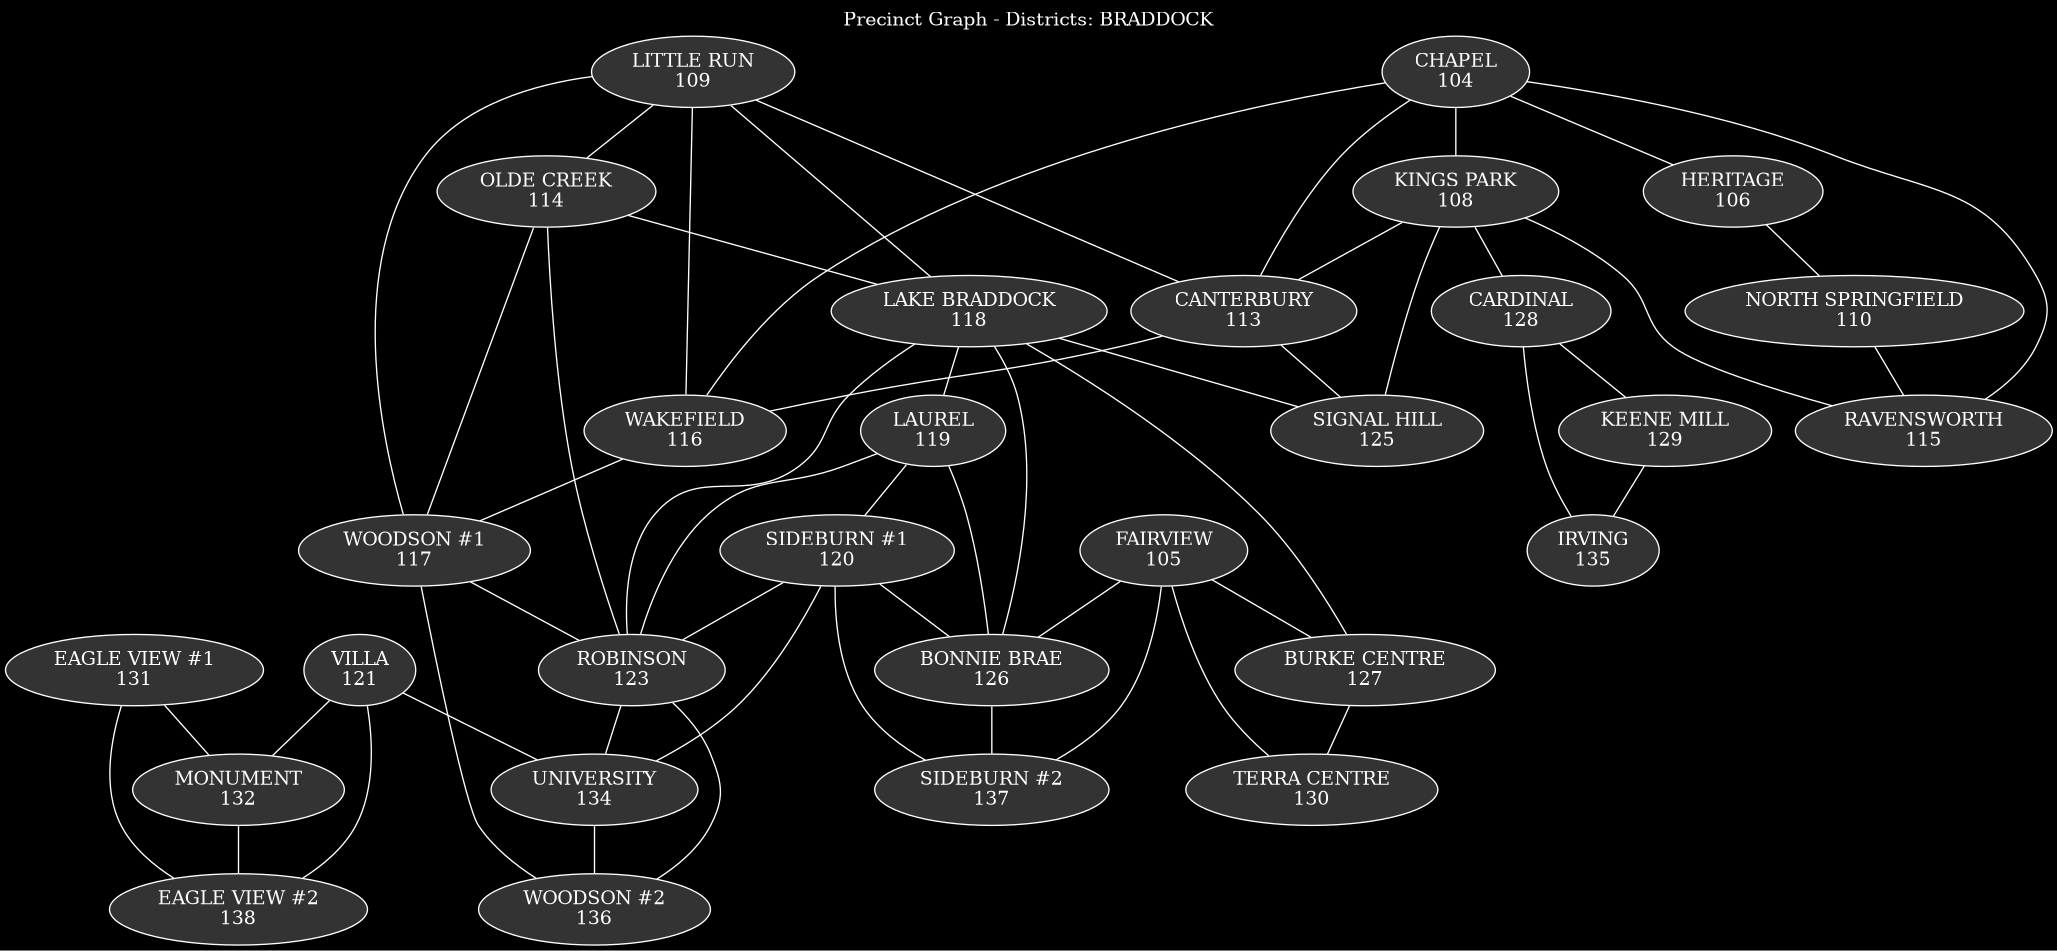
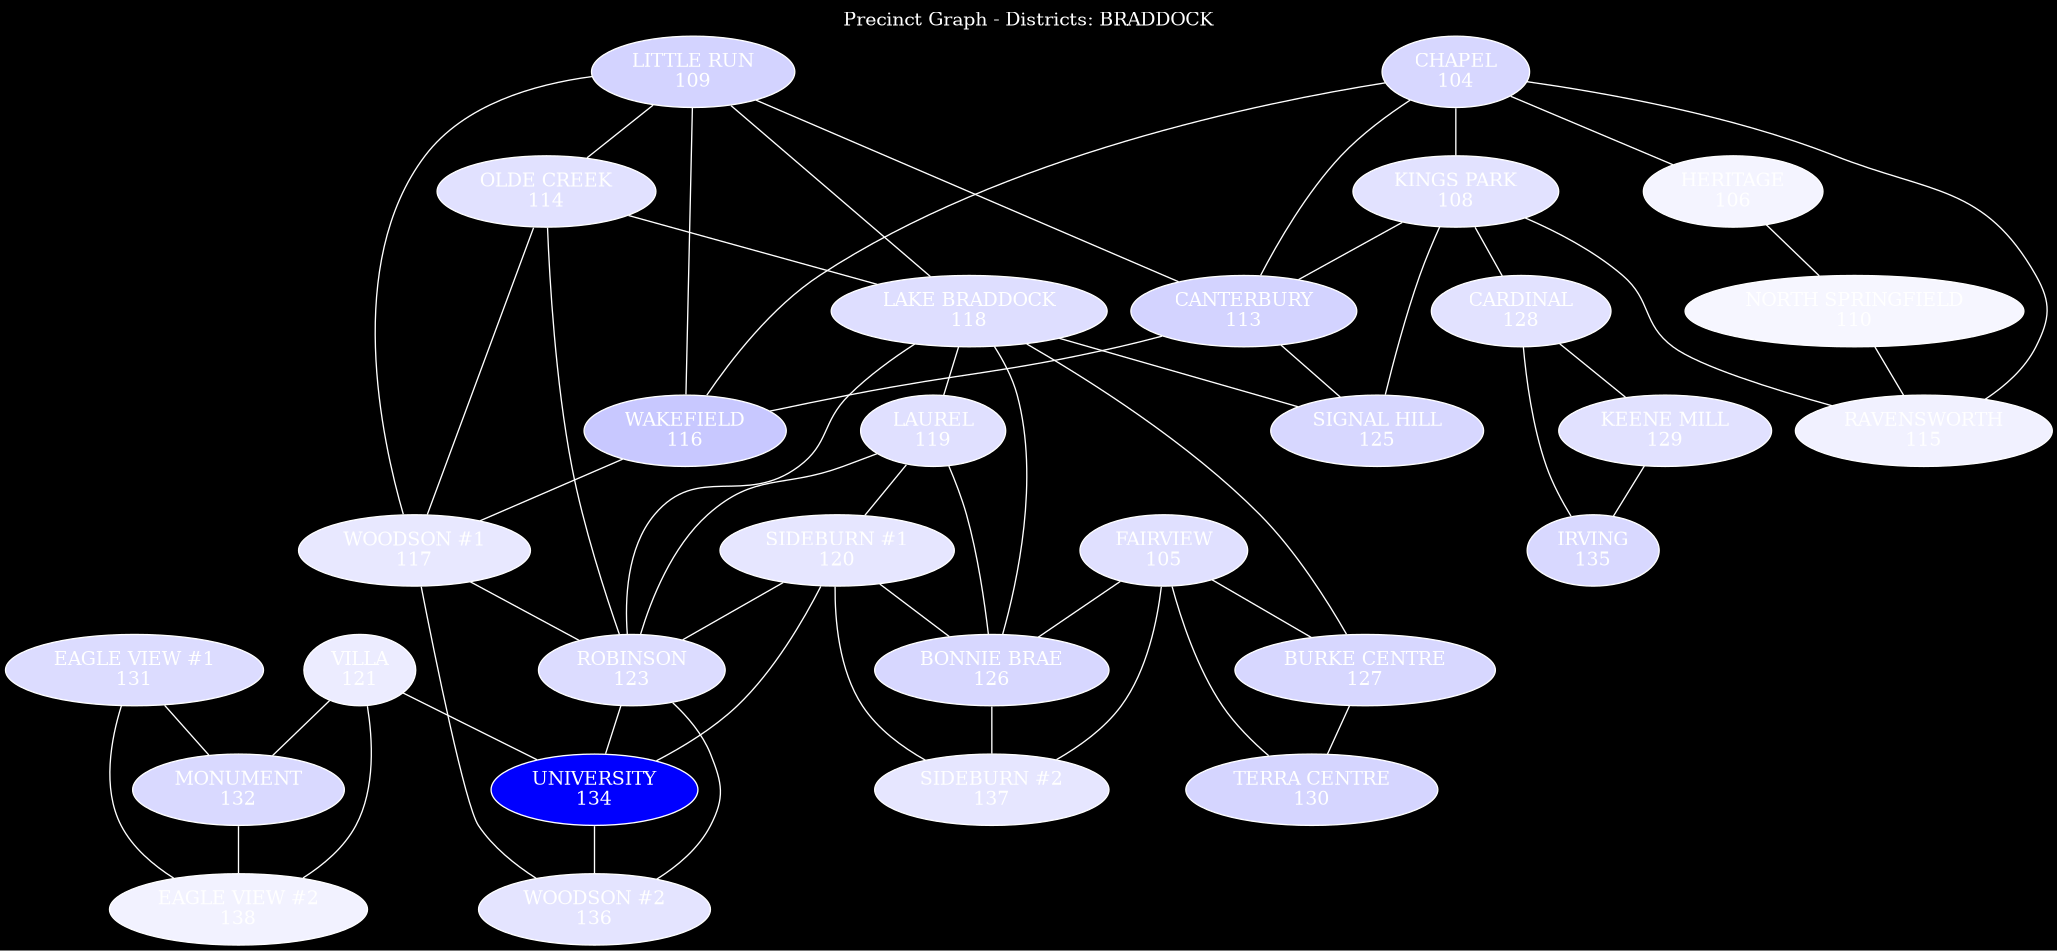
Refactor precinct graph generation to improve color handling and formatting

diff --git a/src/createPrecinctGraph.js b/src/createPrecinctGraph.js
@@ -6,8 +6,8 @@ const metadata = JSON.parse(fs.readFileSync('data/ballots_by_precinct.json'));
 
 // merge color data from metadata into precincts by precinct id
 for (const precinct of precincts) {
-    const precinctMetadata = metadata.find(precinctMetadata => precinctMetadata.precinct.id === precinct.id);
-    precinct.color = precinctMetadata?.color;
+    const precinctMetadata = metadata.find(precinctMetadata => precinctMetadata.precinct.id == precinct.id);
+    precinct.color = precinctMetadata.color;
 }
 
 // filter out edges with ids not within the 100s
@@ -33,7 +33,8 @@ graph += 'edge [color="white"];\n';
 
 precincts.sort((a, b) => a.id - b.id).reverse();
 for (const precinct of precincts) {
-    graph += `${precinct.id} [label="${precinct.name}\\n${precinct.id}"];\n`;
+    const fillColor = precinct.color || 'gray20';
+    graph += `${precinct.id} [label="${precinct.name}\\n${precinct.id}", fillcolor="${fillColor}"];\n`;
     for (const neighbor of precinct.neighbors) {
         if (precinct.id < neighbor) { // to avoid duplicate edges
             graph += `${precinct.id} -- ${neighbor};\n`;
